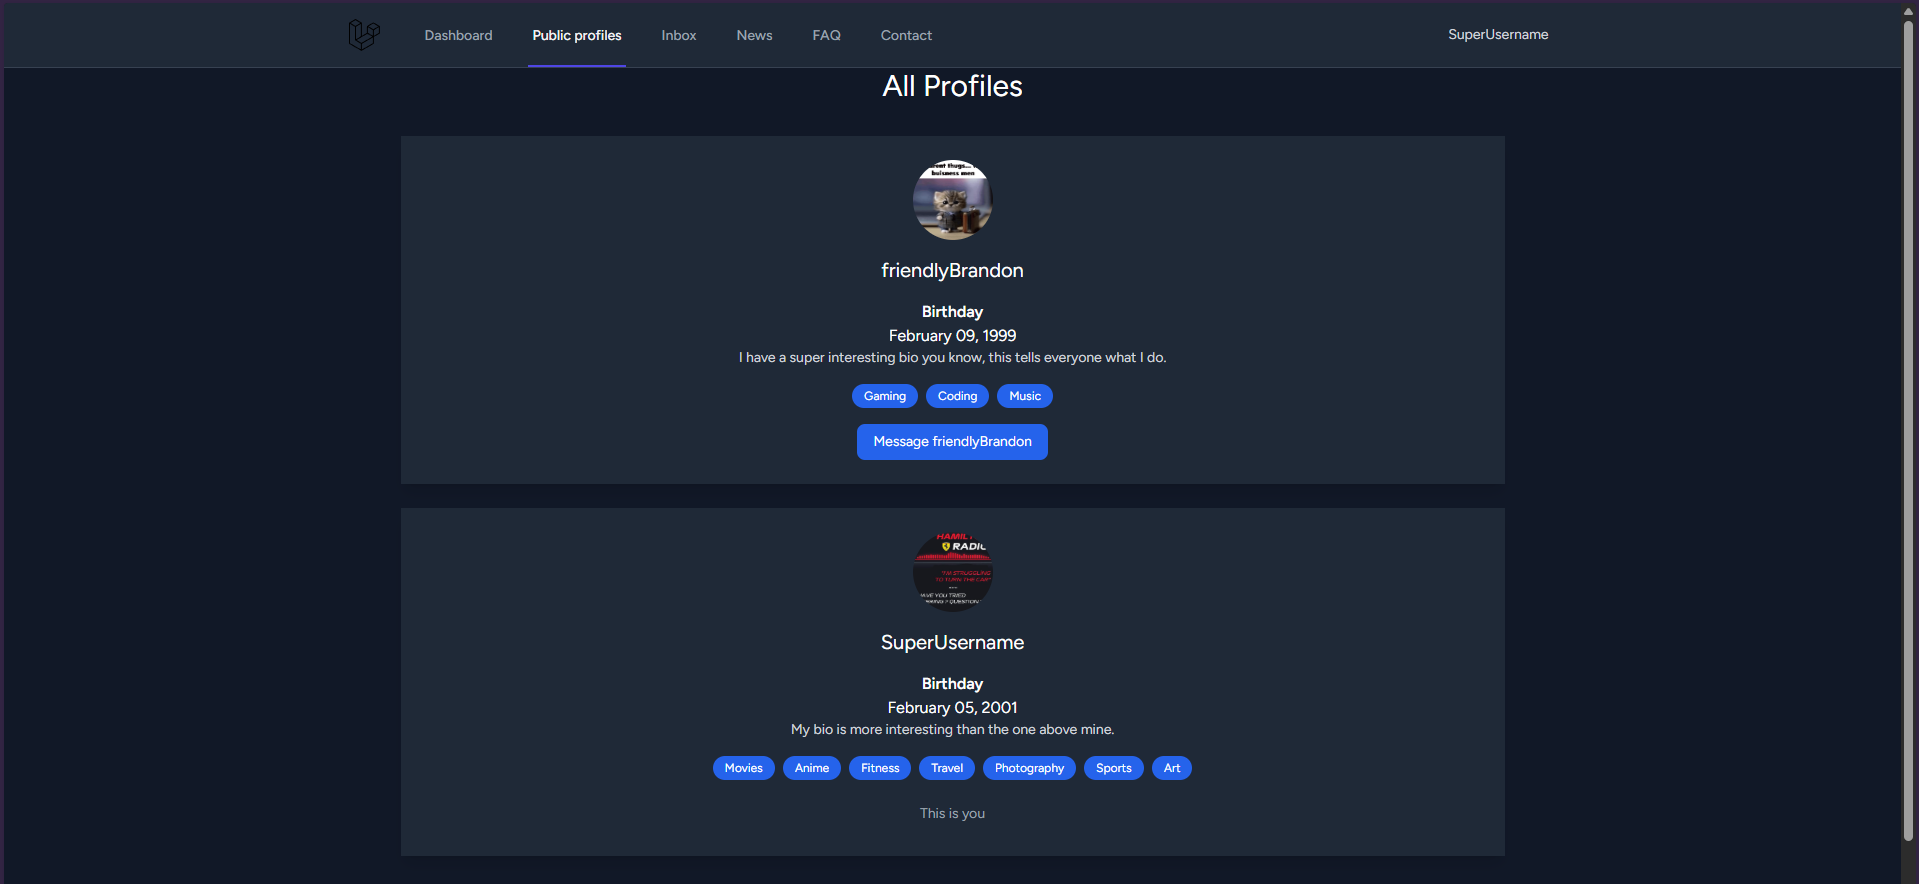
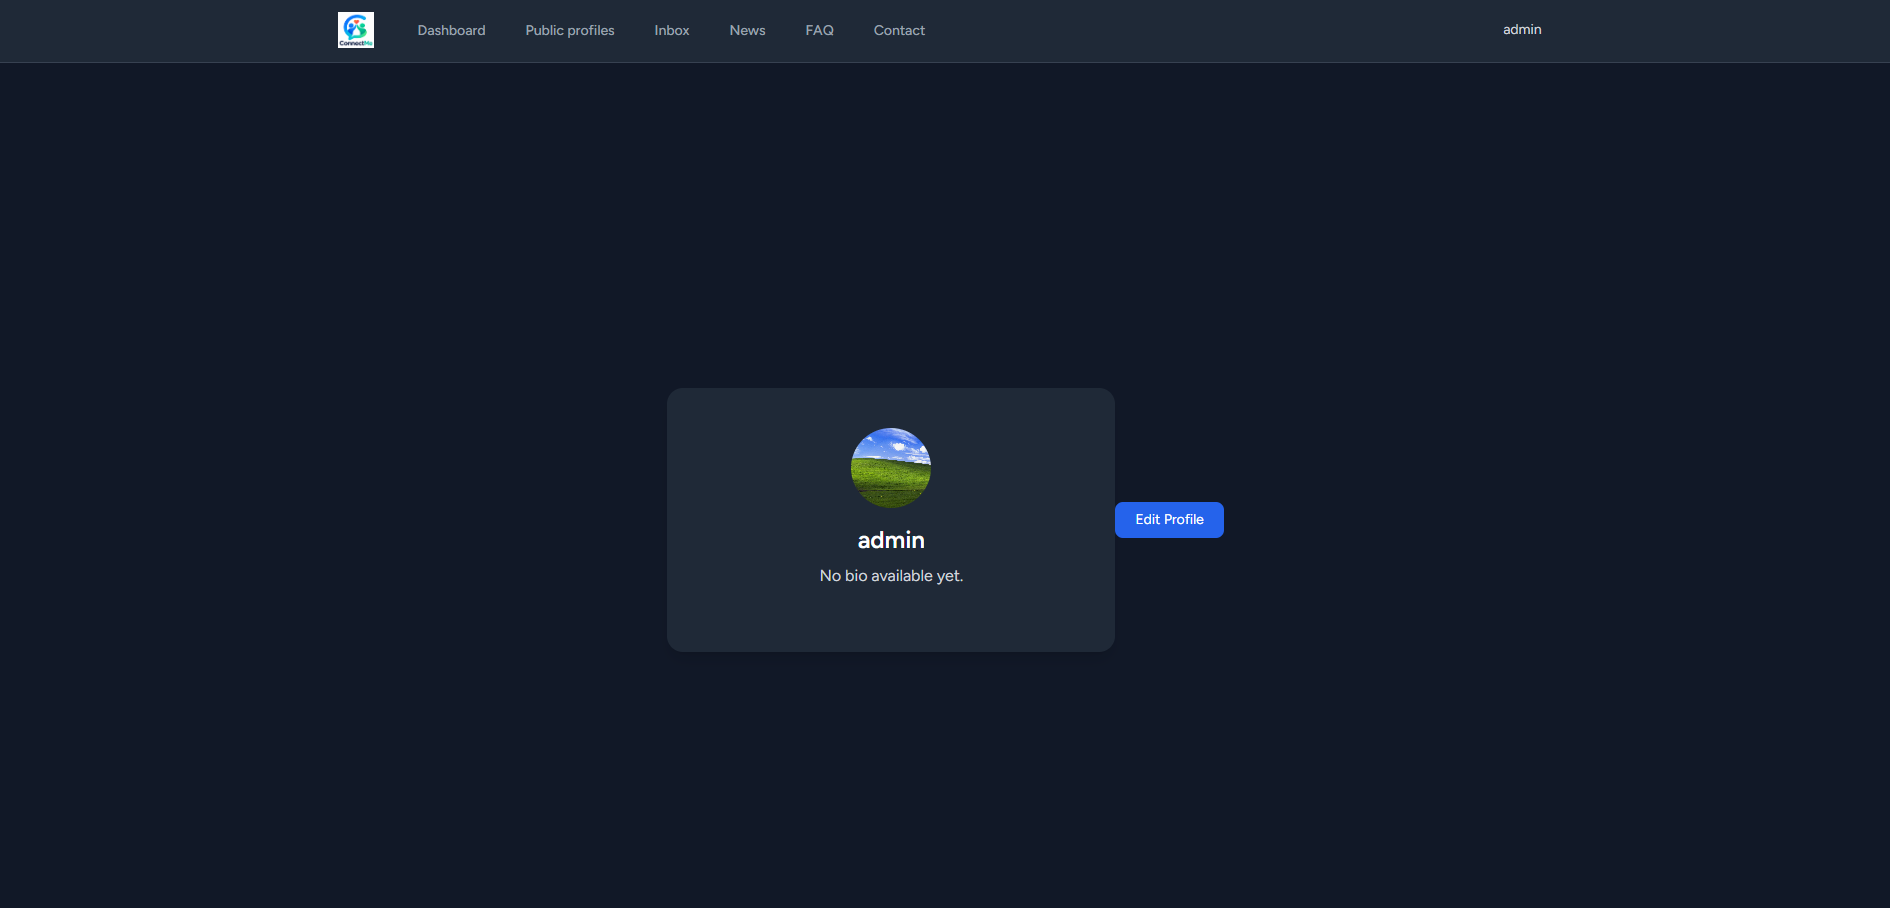
Updated pictures to make it up-to-date.

diff --git a/README.md b/README.md
@@ -11,17 +11,18 @@
   
 ConnectMe is a website to make friends to go for walks, hang out, game friends etc.  
   
-![alt text](image.png)  
-![alt text](image-1.png)  
-![alt text](image-2.png)  
-![alt text](image-3.png)  
-![alt text](image-4.png)  
-![alt text](image-5.png)  
-![alt text](image-6.png)  
-![alt text](image-7.png)  
-![alt text](image-8.png)  
-![alt text](image-9.png)  
-![alt text](image-10.png)  
+![alt text](profile-view.png)
+![alt text](news.png)
+![alt text](news-fullview.png)
+![alt text](FAQ.png)
+![alt text](FAQ-general.png)
+![alt text](contact.png)
+![alt text](admin-page.png) 
+![alt text](manage-news.png)
+![alt text](support-admin.png)
+![alt text](User_messaging.png)
+![alt text](image.png)
+![alt text](image-1.png)
   
   
 # Functionele vereisten:  
